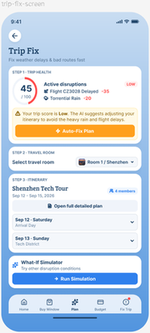
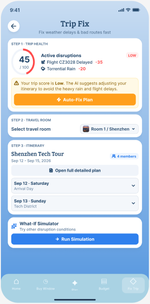
Add full UI prototype screenshots to README section 3

diff --git a/README.md b/README.md
@@ -90,15 +90,37 @@ TripShield is a mobile **travel decision engine**, not another itinerary notepad
 
 ## 3. Design & Prototype
 
-**UI Prototype:** https://www.figma.com/design/Cvm1n2sWtqcTqd3zDarNtU/Untitled?node-id=0-1&t=Ndm2XFmKttBEd0bM-1
+**UI Prototype (Figma):** https://www.figma.com/design/Cvm1n2sWtqcTqd3zDarNtU/Untitled?node-id=0-1&t=Ndm2XFmKttBEd0bM-1
 
-<img src="docs/screens/trip-fix.png" width="150" alt="Trip Fix (Trip Flex)" />
+Screens below are from the running Expo app (same flows as the prototype). Each image is cropped to the phone frame.
 
-*Trip Fix — live Trip Health Score, active disruptions, **Auto-Fix Plan**, travel room, and itinerary summary.*
+<img src="docs/screens/welcome.png" width="150" alt="Welcome" />
+
+*Welcome — TripShield logo, **Sign Up** / **Login**, and a skip path for demo reviewers.*
+
+<img src="docs/screens/home.png" width="150" alt="Home" />
+
+*Home — active trip card, **Buy Window** alert on a fare opportunity, and **TripShield Insight** pointing at decisions that need action.*
+
+<img src="docs/screens/buy-window.png" width="150" alt="Buy Window" />
+
+*Buy Window — paste a TikTok or booking link, see **active buy windows** with price and countdown, plus recently imported ideas.*
+
+<img src="docs/screens/consensus-hub.png" width="150" alt="Group Plan" />
+
+*Group Plan — create or join a trip room, then continue **Seoul Friends Trip** or open a completed plan like **Tokyo 2025**.*
+
+<img src="docs/screens/ledger.png" width="150" alt="Budget" />
+
+*Budget — overall trip spend vs cap, **today’s target**, overspend warnings, and receipt scan entry for splits.*
+
+<img src="docs/screens/trip-fix.png" width="150" alt="Trip Fix" />
+
+*Trip Fix — **Trip Health** score, listed disruptions, **Auto-Fix Plan**, and the group itinerary with a link to **What-If** simulation.*
 
 <img src="docs/screens/what-if.png" width="150" alt="What-If Simulator" />
 
-*What-If Simulator — select disruption conditions, then **Run AI Simulation** for a contingency preview.*
+*What-If — pick disruption scenarios and **Run AI Simulation** before committing to a reroute.*
 
 ---
 

diff --git a/docs/README.md b/docs/README.md
@@ -22,7 +22,12 @@ If you add more boards (mindmaps, crazy eights, 5 Whys, user flows), drop them h
 
 | File | Screen |
 | --- | --- |
-| `trip-fix.png` | Trip Fix (Trip Flex) — cropped to phone frame, ~150px wide in README |
-| `what-if.png` | What-If Simulator — cropped to phone frame, ~150px wide in README |
+| `welcome.png` | Sign up / login entry |
+| `home.png` | Home dashboard and buy-window alert |
+| `buy-window.png` | Link paste, active buy windows, imports |
+| `consensus-hub.png` | Group Plan — trip rooms |
+| `ledger.png` | Trip budget and daily spend |
+| `trip-fix.png` | Trip Health, auto-fix, itinerary |
+| `what-if.png` | What-If disruption simulation |
 
-Add more captures here when ready and embed them in section 3 with `<img … width="150">` so they stay phone-sized on GitHub.
+Embed in section 3 with `<img … width="150">`. Re-export from Expo and re-run crop if you replace a PNG.
